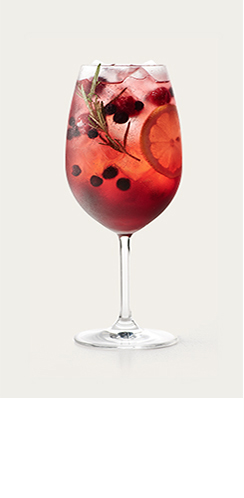
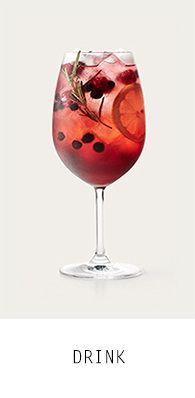
메뉴사진 글씨추가 , 알레르기 수정 - 약간 수정..

diff --git a/JOHAJO1/src/main/java/spring/controller/AllergyController.java b/JOHAJO1/src/main/java/spring/controller/AllergyController.java
@@ -4,17 +4,12 @@ import java.util.List;
 
 import org.springframework.beans.factory.annotation.Autowired;
 import org.springframework.stereotype.Controller;
+import org.springframework.web.bind.annotation.GetMapping;
 import org.springframework.web.bind.annotation.ModelAttribute;
 import org.springframework.web.bind.annotation.PostMapping;
 import org.springframework.web.bind.annotation.RequestMapping;
 import org.springframework.web.bind.annotation.RequestParam;
 import org.springframework.web.servlet.ModelAndView;
-
-
-
-
-
-
 
 import spring.data.AllergyDto;
 import spring.data.MenuDto;
@@ -97,6 +92,18 @@ public class AllergyController {
 		model.addObject("dto",dto);
 		
 		model.setViewName("/menu/allergyUpdateform");
+		return model;
+	}
+	
+	//수정 foodSelect 읽어오기
+	@PostMapping("/foodselect.do")
+	public ModelAndView foodselect(@RequestParam int f)
+	{
+		ModelAndView model = new ModelAndView();
+		List<AllergyDto> list = service.foodSelect(f);
+		model.addObject("list",list);
+		
+		model.setViewName("/menu/foodData");
 		return model;
 	}
 	

diff --git a/JOHAJO1/src/main/java/spring/data/AllergyDao.java b/JOHAJO1/src/main/java/spring/data/AllergyDao.java
@@ -55,9 +55,9 @@ public class AllergyDao extends SqlSessionDaoSupport {
 		return getSqlSession().selectList("allergylist2");
 	}
 	
-	public List<AllergyDto> foodSelect()
+	public List<AllergyDto> foodSelect(int f)
 	{
-		return getSqlSession().selectList("allergyFoodSelect");
+		return getSqlSession().selectList("allergyFoodSelect",f);
 	}
 	
 	/* 관리자용 */

diff --git a/JOHAJO1/src/main/java/spring/service/AllergyService.java b/JOHAJO1/src/main/java/spring/service/AllergyService.java
@@ -81,8 +81,8 @@ public class AllergyService {
 		dao.deleteAllergy(idx);
 	}
 
-	public List<AllergyDto> foodSelect()
+	public List<AllergyDto> foodSelect(int f)
 	{
-		return dao.foodSelect();
+		return dao.foodSelect(f);
 	}
 }
